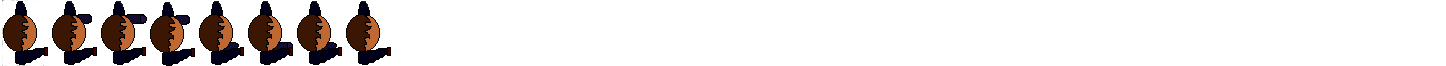
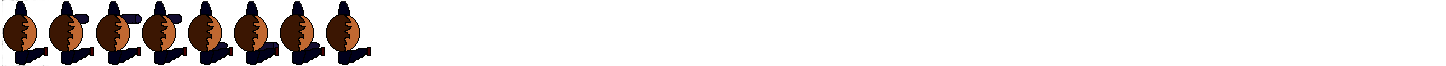
ANIMATION WORKING!!!!!!!!!!!!!!!!!!!!

Changed region(s): [[0.0311, 0.0, 0.2801, 1.0]]

diff --git a/The_Attempt/The_Attempt/Game1.cs b/The_Attempt/The_Attempt/Game1.cs
@@ -394,25 +394,25 @@ namespace The_Attempt
                  // if the player is walking in a direction
                  if (charState == CharState.WalkUp)
                  {
-                     spriteBatch.Draw(playerImg, new Vector2(player.X, player.Y), null, Color.White, 1.57f, Vector2.Zero, 1, SpriteEffects.FlipHorizontally, 0);
+                     spriteBatch.Draw(playerImg, new Vector2(player.X, player.Y), new Rectangle(CHAR_X_OFFSET + (frame * CHAR_WIDTH), CHAR_Y, CHAR_WIDTH, CHAR_HEIGHT), Color.White, -1.57f, new Vector2(CHAR_WIDTH, 0), 1, SpriteEffects.None, 0);
                  }
                  if (charState == CharState.WalkRight)
                  {
-                     spriteBatch.Draw(playerImg, new Vector2(player.X, player.Y), new Rectangle(CHAR_X_OFFSET + frame * CHAR_WIDTH, CHAR_Y, CHAR_WIDTH, CHAR_HEIGHT), Color.White);
+                     spriteBatch.Draw(playerImg, new Vector2(player.X, player.Y), new Rectangle(CHAR_X_OFFSET + (frame * CHAR_WIDTH), CHAR_Y, CHAR_WIDTH, CHAR_HEIGHT), Color.White);
                  }
                  if (charState == CharState.WalkDown)
                  {
-                     spriteBatch.Draw(playerImg, new Rectangle(player.X, player.Y + player.Height, player.Height, player.Height), null, Color.White, -1.57f, Vector2.Zero, SpriteEffects.FlipHorizontally, 0);
-                 }
+                    spriteBatch.Draw(playerImg, new Vector2(player.X, player.Y), new Rectangle(CHAR_X_OFFSET + (frame * CHAR_WIDTH), CHAR_Y, CHAR_WIDTH, CHAR_HEIGHT), Color.White, 1.57f, new Vector2(0, CHAR_HEIGHT), 1, SpriteEffects.None, 0);
+                }
                  if (charState == CharState.WalkLeft)
                  {
-                     spriteBatch.Draw(playerImg, new Vector2(player.X, player.Y), null, Color.White, 0, Vector2.Zero, 1, SpriteEffects.FlipHorizontally, 0);
+                     spriteBatch.Draw(playerImg, new Vector2(player.X, player.Y), new Rectangle(CHAR_X_OFFSET + (frame * CHAR_WIDTH), CHAR_Y, CHAR_WIDTH, CHAR_HEIGHT), Color.White, 3.14f, new Vector2(CHAR_WIDTH, CHAR_HEIGHT), 1, SpriteEffects.None, 0);
                  }
 
                  // if the player is only facing a direction (not walking)
                  if (charState == CharState.FaceUp)
                  {
-                     spriteBatch.Draw(playerImg, player.Position, new Rectangle(0, 0, player.Width, player.Height), Color.White, 1.57f, Vector2.Zero, SpriteEffects.FlipHorizontally, 0);
+                     spriteBatch.Draw(playerImg, new Vector2(player.X, player.Y), new Rectangle(CHAR_X_OFFSET + (frame * CHAR_WIDTH), CHAR_Y, CHAR_WIDTH, CHAR_HEIGHT), Color.White, -1.57f, new Vector2(CHAR_WIDTH, 0), 1, SpriteEffects.None, 0);
                  }
                  if (charState == CharState.FaceRight)
                  {
@@ -420,16 +420,16 @@ namespace The_Attempt
                  }
                  if (charState == CharState.FaceDown)
                  {
-                     spriteBatch.Draw(playerImg, player.Position, new Rectangle(0, 0, player.Width, player.Height), Color.White, -1.57f, Vector2.Zero, SpriteEffects.FlipHorizontally, 0);
-                 }
-                 if (charState == CharState.FaceLeft)
+                    spriteBatch.Draw(playerImg, new Vector2(player.X, player.Y), new Rectangle(0, 0, player.Width, player.Height), Color.White, 1.57f, new Vector2(0, CHAR_HEIGHT), 1, SpriteEffects.None, 0);
+                }
+                if (charState == CharState.FaceLeft)
                  {
-                     spriteBatch.Draw(playerImg, player.Position, new Rectangle(0, 0, player.Width, player.Height), Color.White, 0, Vector2.Zero, SpriteEffects.FlipHorizontally, 0);
-                 }
- 
+                    spriteBatch.Draw(playerImg, new Vector2(player.X, player.Y), new Rectangle(0, 0, player.Width, player.Height), Color.White, 3.14f, new Vector2(CHAR_WIDTH, CHAR_HEIGHT), 1, SpriteEffects.None, 0);
+                }
+
 
                 //key rendering
-                if(key.Rendered == true)
+                if (key.Rendered == true)
                 {
                     key.Draw(spriteBatch);
                 }
